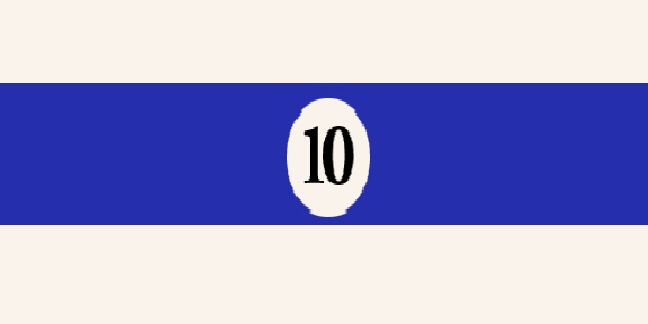
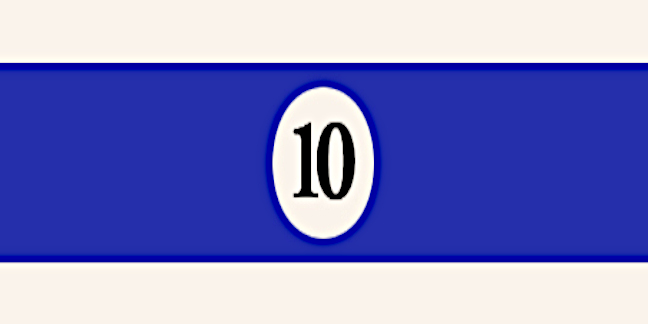
Ball Texture Fix

Changed region(s): [[0.0, 0.1852, 1.0, 0.8333]]

diff --git a/src/main/java/io/pool/view/BallView.java b/src/main/java/io/pool/view/BallView.java
@@ -22,7 +22,7 @@ public class BallView {
         PhongMaterial material = new PhongMaterial();
         material.setDiffuseMap(img);
         material.setSpecularColor(Color.WHITE);
-        material.setSpecularPower(200);
+        material.setSpecularPower(1000);
         ball.setMaterial(material);
         ballCircle = new Circle(ball.getRadius());
     }
